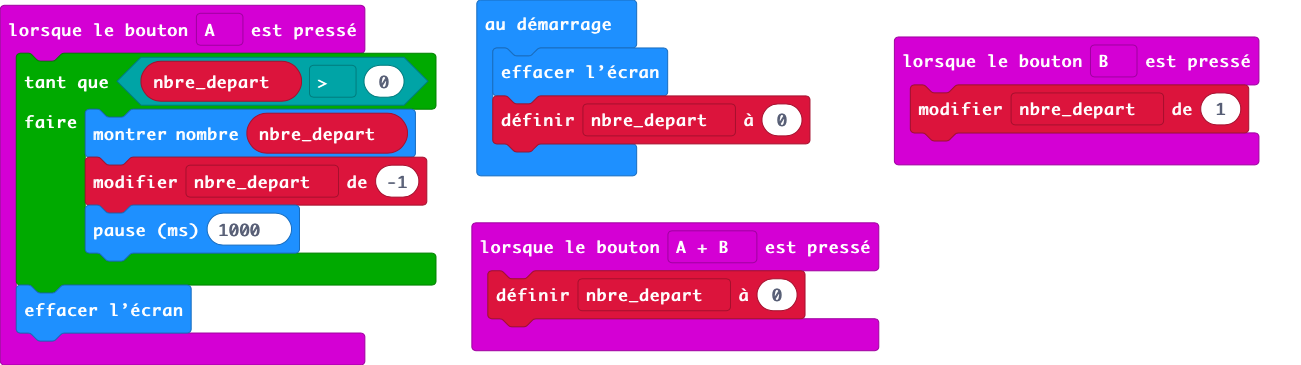
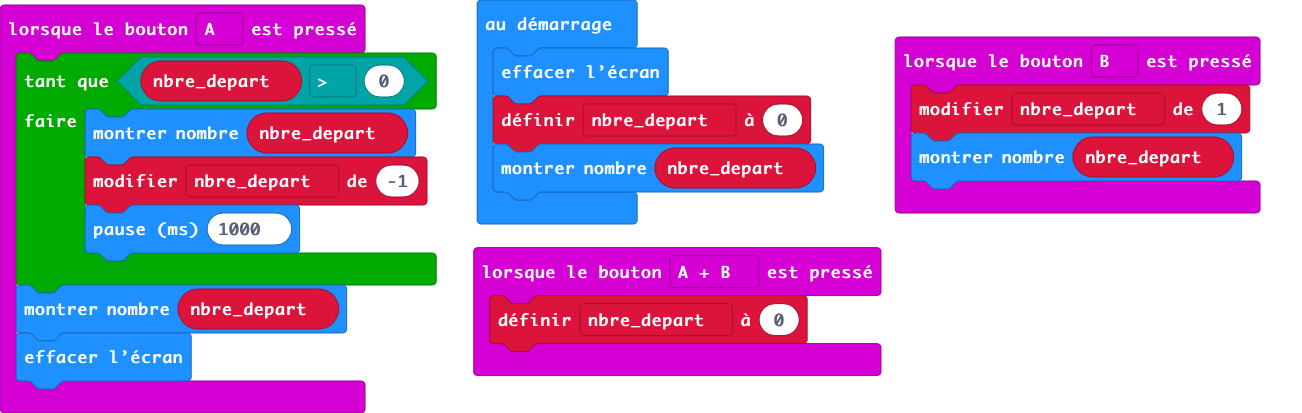
Mise à jour main.blocks, main.ts

diff --git a/main.ts b/main.ts
@@ -4,6 +4,7 @@ input.onButtonPressed(Button.A, function () {
         nbre_depart += -1
         basic.pause(1000)
     }
+    basic.showNumber(nbre_depart)
     basic.clearScreen()
 })
 input.onButtonPressed(Button.AB, function () {
@@ -11,7 +12,9 @@ input.onButtonPressed(Button.AB, function () {
 })
 input.onButtonPressed(Button.B, function () {
     nbre_depart += 1
+    basic.showNumber(nbre_depart)
 })
 let nbre_depart = 0
 basic.clearScreen()
 nbre_depart = 0
+basic.showNumber(nbre_depart)
